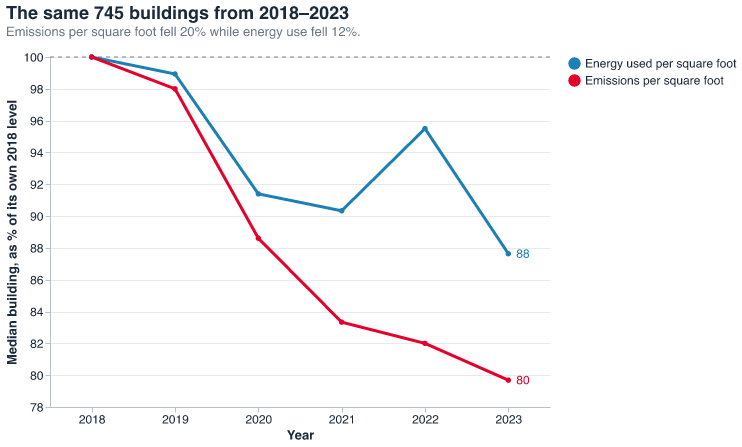
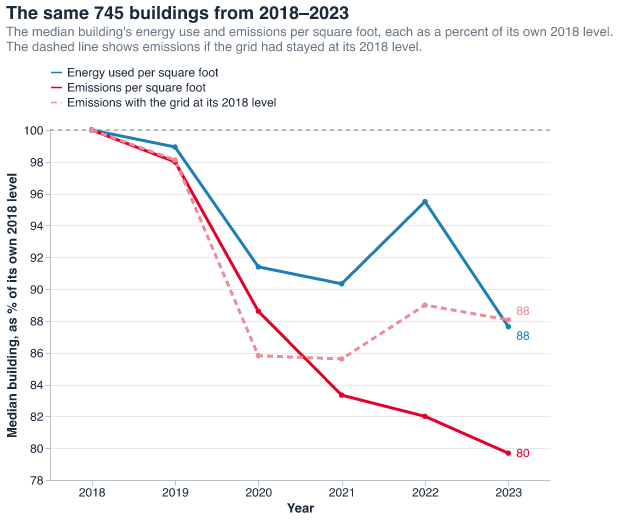
Figure 6 - add a hypothetical emissions line that shows the trend towards a cleaner grid

diff --git a/src/final_graphs.py b/src/final_graphs.py
@@ -902,18 +902,71 @@ save_chart(fuel_mix(latest_top), "5_fuel_mix")
 # =============================================================================
 
 
+# Column with each building's floor area
+AREA_COLUMN = "gross_floor_area_buildings_sq_ft_"
+LABEL_NUDGE = 9  # Pixels between the end labels of lines that nearly overlap
+# A paler red than the emissions line
+HYPOTHETICAL_EMISSIONS_COLOR = "#EE8B98"
+
+
+def estimate_emission_factors(d):
+    """
+    Estimate how many kilograms of CO2e each kBtu of each fuel produces, from
+    the buildings' own fuel use and reported emissions. This is a least
+    squares fit through the origin. A fuel whose fitted factor would be
+    negative is dropped and the fit is repeated.
+
+    Inputs: a DataFrame of buildings from one year, with the fuel columns
+        (see FUEL_COLS) and total emissions in metric tons.
+    Output: a Series of factors (kg CO2e per kBtu), indexed by fuel column.
+    """
+    d = d.dropna(subset=[GHG_TOTAL])
+    use = d[list(FUEL_COLS)].fillna(0)
+    emitted_kg = d[GHG_TOTAL] * THOUSAND
+    fuels = list(FUEL_COLS)
+    while True:
+        factors, *_ = np.linalg.lstsq(
+            use[fuels].values, emitted_kg.values, rcond=None
+        )
+        negative = [f for f, x in zip(fuels, factors) if x < 0]
+        if not negative:
+            break
+        fuels = [f for f in fuels if f not in negative]
+    factors = pd.Series(factors, index=fuels)
+    return factors.reindex(list(FUEL_COLS), fill_value=0)
+
+
+def calculate_fixed_factor_intensity(d, start):
+    """
+    Emissions per square foot for every building and year if each fuel had
+    kept its emission factor from the first year. Any change in this measure
+    comes from the buildings' energy use or fuel mix, not from the grid.
+
+    Inputs: a DataFrame of the buildings in every year, and the first year.
+    Output: a DataFrame of emissions per square foot, with one row per
+        building and one column per year.
+    """
+    factors = estimate_emission_factors(d[d["data_year"] == start])
+    use = d[list(FUEL_COLS)].fillna(0)
+    intensity = (use * factors).sum(axis=1) / d[AREA_COLUMN]
+    return intensity.groupby([d["id"], d["data_year"]]).first().unstack()
+
+
 def same_building_trend(df, start=2018, end=2023):
     """
     Line chart of how the median building's energy use and emissions
     changed, for the buildings that reported every year. Each building is
     compared with its own value in the first year, and the line shows the
-    median of those percentages.
+    median of those percentages. A dashed line shows what emissions would
+    have been if the emission factors had stayed at their first-year level,
+    which separates a cleaner grid from changes in the buildings.
 
     Inputs: all-years DataFrame, and the first and last year to show.
     Output: an Altair chart.
     """
     energy = "Energy used per square foot"
     emissions = "Emissions per square foot"
+    fixed = "Emissions with the grid at its 2018 level"
     metrics = {
         "site_eui_kbtu_sq_ft_": energy,
         GHG_INTENSITY: emissions,
@@ -931,15 +984,19 @@ def same_building_trend(df, start=2018, end=2023):
             for column, name in metrics.items()
         }
     )
-
-    # Change from the first to the last year, for the subtitle
-    energy_change = trend.loc[end, energy] / 100 - 1
-    emissions_change = trend.loc[end, emissions] / 100 - 1
+    held = calculate_fixed_factor_intensity(d[d["id"].isin(ids)], start)
+    held = held.where(held[start] > 0)
+    trend[fixed] = (held.div(held[start], axis=0) * 100).median()
 
     trend = trend.reset_index().melt(
         "data_year", var_name="measure", value_name="index"
     )
 
+    # One legend for color and dashes, with line symbols so the hypothetical
+    # line shows as dashes
+    legend = alt.Legend(
+        orient="top", columns=1, labelLimit=400, symbolType="stroke"
+    )
     base = alt.Chart(trend).encode(
         x=alt.X("data_year:O", title="Year", axis=alt.Axis(labelAngle=0)),
         y=alt.Y(
@@ -951,9 +1008,18 @@ def same_building_trend(df, start=2018, end=2023):
             "measure:N",
             title=None,
             scale=alt.Scale(
-                domain=[energy, emissions],
-                range=[DEEP_BLUE, STAR_RED],
+                domain=[energy, emissions, fixed],
+                range=[DEEP_BLUE, STAR_RED, HYPOTHETICAL_EMISSIONS_COLOR],
             ),
+            legend=legend,
+        ),
+        strokeDash=alt.StrokeDash(
+            "measure:N",
+            scale=alt.Scale(
+                domain=[energy, emissions, fixed],
+                range=[[1, 0], [1, 0], [6, 4]],
+            ),
+            legend=legend,
         ),
     )
     lines = base.mark_line(point=True, strokeWidth=3).encode(
@@ -963,10 +1029,18 @@ def same_building_trend(df, start=2018, end=2023):
             alt.Tooltip("index:Q", title="Index", format=".1f"),
         ]
     )
-    labels = (
-        base.transform_filter(alt.datum.data_year == end)
-        .mark_text(align="left", dx=8, fontSize=12)
-        .encode(text=alt.Text("index:Q", format=".0f"))
+    # End-of-line numbers. Make sure the energy and hypothetical emissions
+    # lines are not on top of each other.
+    label_offsets = {energy: LABEL_NUDGE, emissions: 0, fixed: -LABEL_NUDGE}
+    labels = alt.layer(
+        *[
+            base.transform_filter(
+                (alt.datum.data_year == end) & (alt.datum.measure == measure)
+            )
+            .mark_text(align="left", dx=8, dy=offset, fontSize=12)
+            .encode(text=alt.Text("index:Q", format=".0f"))
+            for measure, offset in label_offsets.items()
+        ]
     )
     ref = (
         alt.Chart(pd.DataFrame({"y": [100]}))
@@ -978,10 +1052,12 @@ def same_building_trend(df, start=2018, end=2023):
         height=LINE_CHART_HEIGHT,
         title=alt.TitleParams(
             f"The same {len(ids):,} buildings from {start}–{end}",
-            subtitle=(
-                f"Emissions per square foot fell {abs(emissions_change):.0%} "
-                f"while energy use fell {abs(energy_change):.0%}."
-            ),
+            subtitle=[
+                "The median building's energy use and emissions per square "
+                f"foot, each as a percent of its own {start} level.",
+                "The dashed line shows emissions if the grid had stayed at its"
+                f" {start} level.",
+            ],
             anchor="start",
         ),
     )
